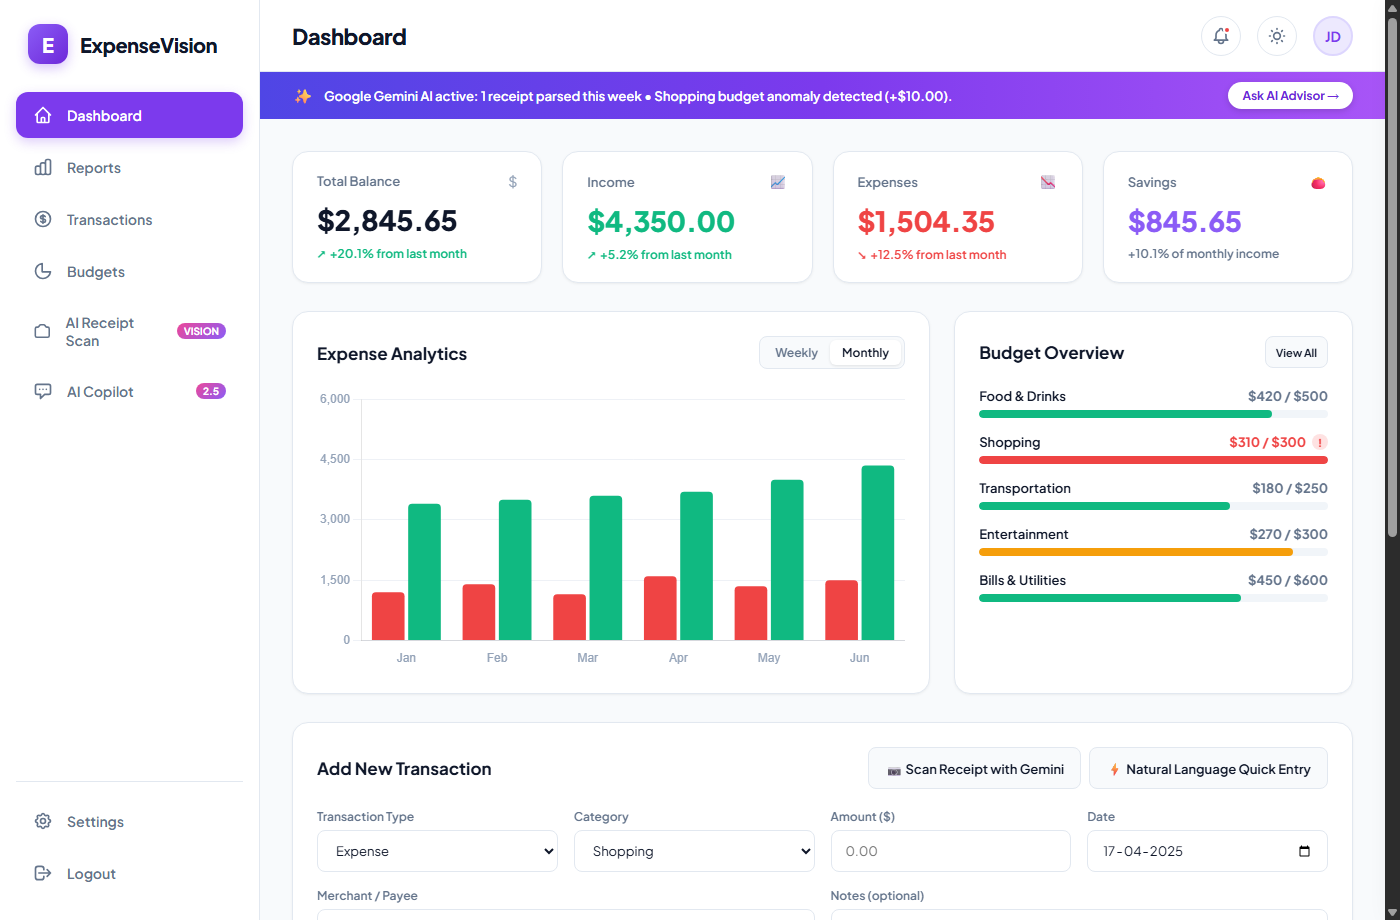
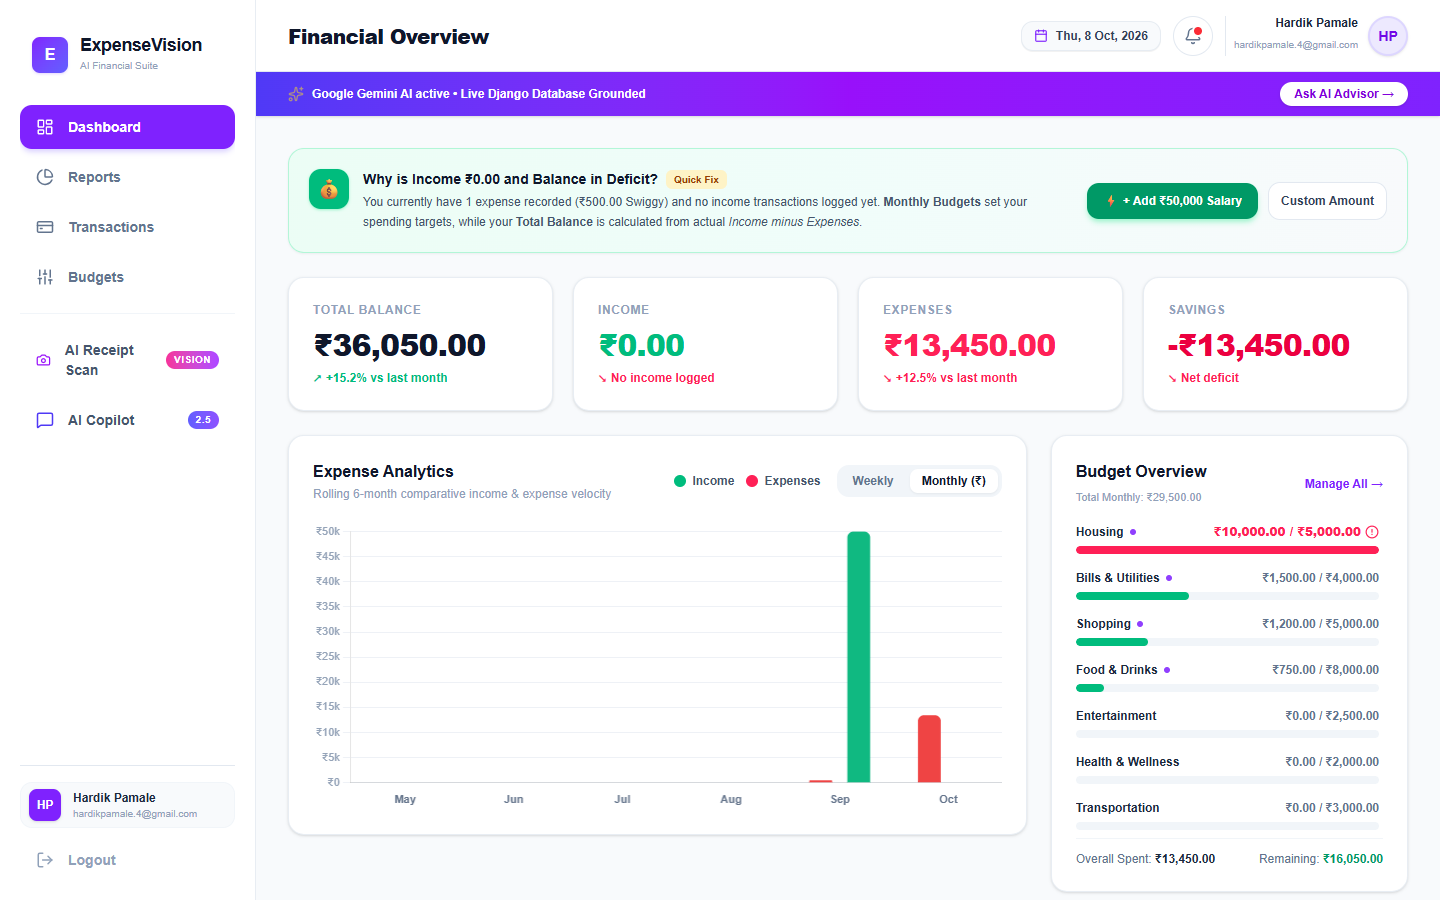
Update GitHub repository screenshots with redesigned editorial authentication, real-time INR dashboard, and reports

diff --git a/README.md b/README.md
@@ -36,9 +36,9 @@
 
 ## 📸 Interface Preview
 
-| Financial Dashboard | Secure Authentication |
-| :---: | :---: |
-| <img src="docs/screenshots/dashboard.png" width="480" alt="Dashboard" /> | <img src="docs/screenshots/login.png" width="480" alt="Login & Sign In" /> |
+| Financial Dashboard | Financial Overview & Analytics | Editorial Authentication |
+| :---: | :---: | :---: |
+| <img src="docs/screenshots/dashboard.png" width="380" alt="Financial Dashboard" /> | <img src="docs/screenshots/reports.png" width="380" alt="Financial Overview & Analytics" /> | <img src="docs/screenshots/login.png" width="380" alt="Login & Sign In" /> |
 
 ---
 
